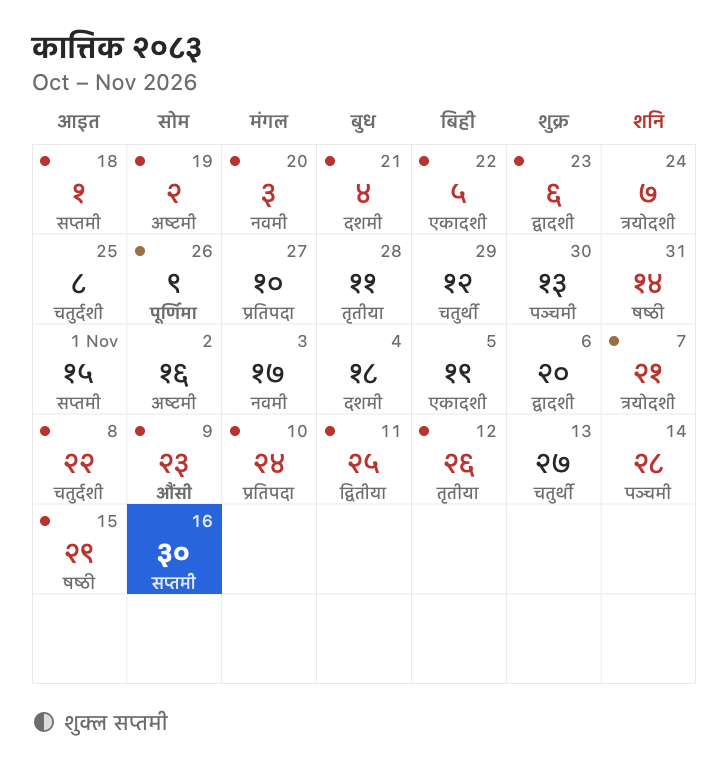
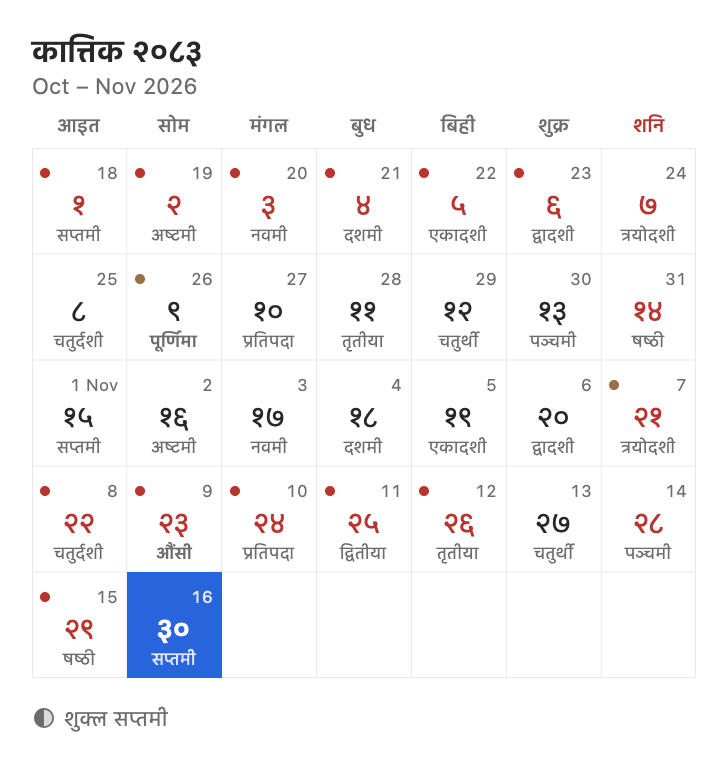
Draw only the rows a month needs; the hidden-section popover follows the month

diff --git a/Sources/SambatApp/Views/ConverterPage.swift b/Sources/SambatApp/Views/ConverterPage.swift
@@ -176,7 +176,8 @@ struct ADDatePicker: View {
 }
 
 /// A Gregorian month drawn like the Nepali grid, as boxes: today's box in the accent, the chosen day
-/// tinted, today on the other clock outlined. Always six rows, so the result below never moves.
+/// tinted, today on the other clock outlined. Only the rows the month needs; the space it sits in
+/// has a fixed height, so the result below never moves.
 struct ADMonthGrid: View {
     let selected: Int
     let todayJDN: Int
@@ -189,10 +190,11 @@ struct ADMonthGrid: View {
         let start = JDN.from(year: ad.year, month: ad.month, day: 1)
         let length = ADDate.daysInMonth(year: ad.year, month: ad.month)
         let lead = JDN.weekday(start)
+        let rows = (lead + length + 6) / 7
         VStack(spacing: 0) {
             WeekdayHeader(lang: .english)
             Grid(horizontalSpacing: 0, verticalSpacing: 0) {
-                ForEach(0..<6, id: \.self) { row in
+                ForEach(0..<rows, id: \.self) { row in
                     GridRow {
                         ForEach(0..<7, id: \.self) { col in
                             let index = row * 7 + col - lead
@@ -205,7 +207,7 @@ struct ADMonthGrid: View {
                     }
                 }
             }
-            .background(BoxLines(rows: 6, columns: 7))
+            .background(BoxLines(rows: rows, columns: 7))
         }
     }
 

diff --git a/Sources/SambatWidgets/Widgets.swift b/Sources/SambatWidgets/Widgets.swift
@@ -214,6 +214,7 @@ struct MonthWidgetContent: View {
         let bs = BSDate(jdn: entry.jdn) ?? BSDate(year: 2083, month: 1, day: 1)
         let start = BSCalendar.startJDN(year: bs.year, month: bs.month) ?? entry.jdn
         let len = BSCalendar.daysInMonth(year: bs.year, month: bs.month) ?? 30
+        let rows = MonthGrid.rows(year: bs.year, month: bs.month)
         let a = ADDate(jdn: start), b = ADDate(jdn: start + len - 1)
         let todayEvent = FestivalEngine.shared.events(on: entry.jdn).first { $0.category != .observance }
         VStack(alignment: .leading, spacing: 6) {
@@ -225,7 +226,8 @@ struct MonthWidgetContent: View {
                     .foregroundStyle(.quiet)
             }
             MonthGrid(year: bs.year, month: bs.month, todayJDN: entry.jdn, lang: cal, palette: palette,
-                      metrics: .init(cellHeight: 45, numeralSize: 15, numeralRow: 20, numeralTop: 3,
+                      metrics: .init(cellHeight: rows == 6 ? 45 : 53, numeralSize: 15, numeralRow: 20,
+                                     numeralTop: rows == 6 ? 3 : 7,
                                      showAD: true, showTithi: entry.settings.showTithi, interactive: false))
             Spacer(minLength: 0)
             HStack(spacing: 10) {

diff --git a/Sources/SambatUI/MonthGrid.swift b/Sources/SambatUI/MonthGrid.swift
@@ -14,14 +14,14 @@ public struct MonthGrid: View {
         public var numeralTop: CGFloat
         /// Horizontal inset of the day mark.
         public var markInset: CGFloat
-        /// Always draw at least this many rows, so the grid keeps one height from month to month.
+        /// Draw at least this many rows (0: only the rows the month needs).
         public var minRows: Int
         public var showAD: Bool
         public var showTithi: Bool
         public var interactive: Bool
 
         public init(cellHeight: CGFloat = 44, numeralSize: CGFloat = 15, numeralRow: CGFloat = 26, numeralTop: CGFloat = 6,
-                    markInset: CGFloat = 0, minRows: Int = 6,
+                    markInset: CGFloat = 0, minRows: Int = 0,
                     showAD: Bool = true, showTithi: Bool = true, interactive: Bool = true) {
             self.cellHeight = cellHeight
             self.numeralSize = numeralSize

diff --git a/Sources/SambatApp/StatusBarController.swift b/Sources/SambatApp/StatusBarController.swift
@@ -51,6 +51,8 @@ final class StatusBarController: NSObject, NSPopoverDelegate {
             _ = model.settings.appearance
             _ = model.page
             _ = model.sectionHidden
+            _ = model.displayYear
+            _ = model.displayMonth
         } onChange: { [weak self] in
             Task { @MainActor in
                 self?.updateButton()

diff --git a/DESIGN.md b/DESIGN.md
@@ -46,7 +46,7 @@ Sentence case for every label and header. No uppercase tracked labels, no middle
 
 ## The patro grid (`SambatUI.MonthGrid`)
 
-- A box grid, as in a printed patro: every day a box drawn with 0.5 pt hairlines (`BoxLines`, 10% primary), inner and outer edges. Always six rows, so the grid keeps one height from month to month.
+- A box grid, as in a printed patro: every day a box drawn with 0.5 pt hairlines (`BoxLines`, 10% primary), inner and outer edges. Only the rows a month needs (five or six); with "Coming up" shown, it absorbs the difference, and with it hidden the popover follows the month.
 - Sunday first; weekday initials in the calendar language above the boxes, Saturday in holiday red.
 - Each box reads in three lines: festival dot on the left and the AD day on the right (the 1st carries the month: "1 Nov"); the BS numeral; the tithi at a fixed size.
 - A day is marked by its whole box (`DayMark`, square): filled with the accent for today, with all its text in `onAccent`; a 10% primary tint for the selection; a 1.5 pt outline for today on the other clock; a 5% tint on hover. The converter's AD and BS grids use the same boxes.
